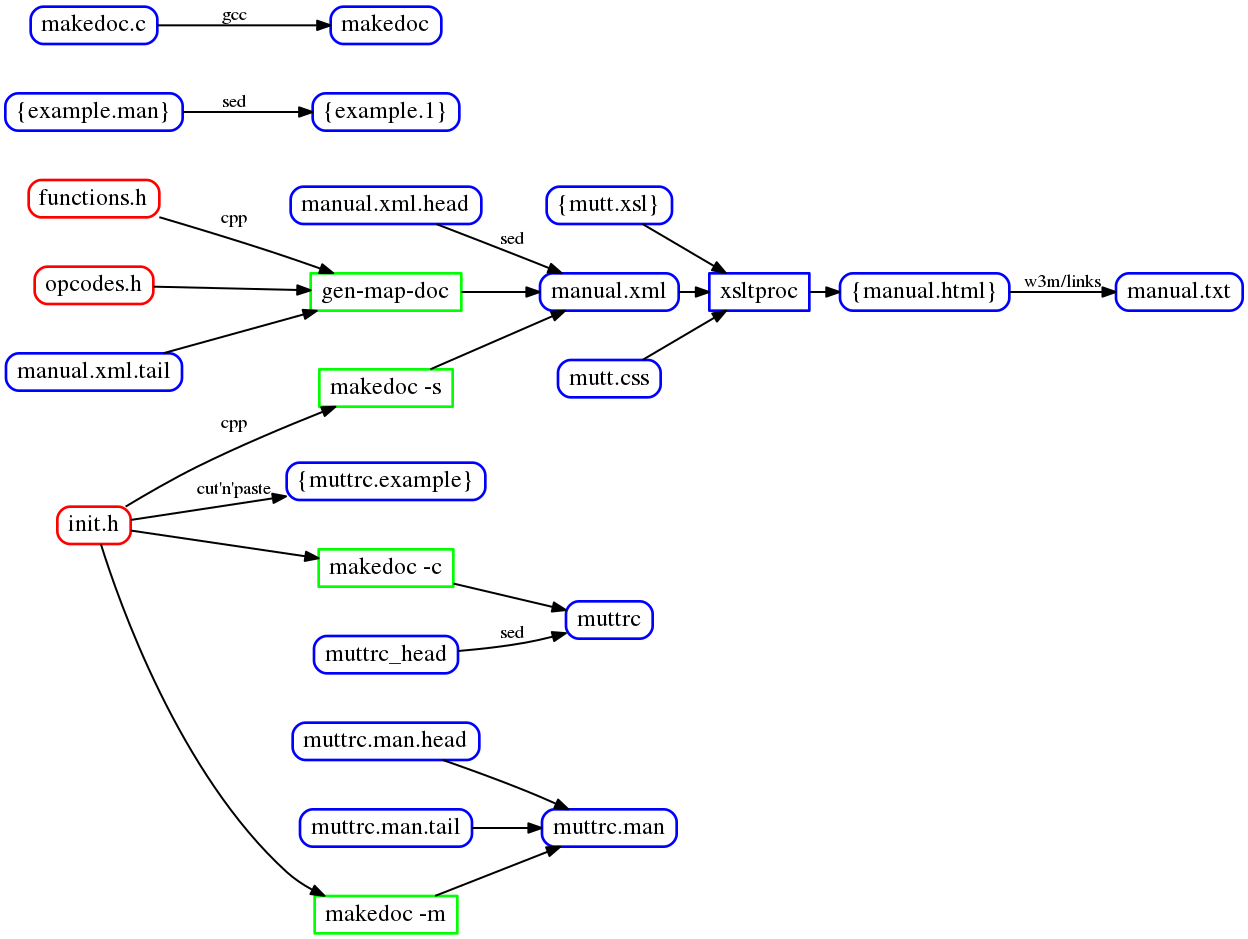
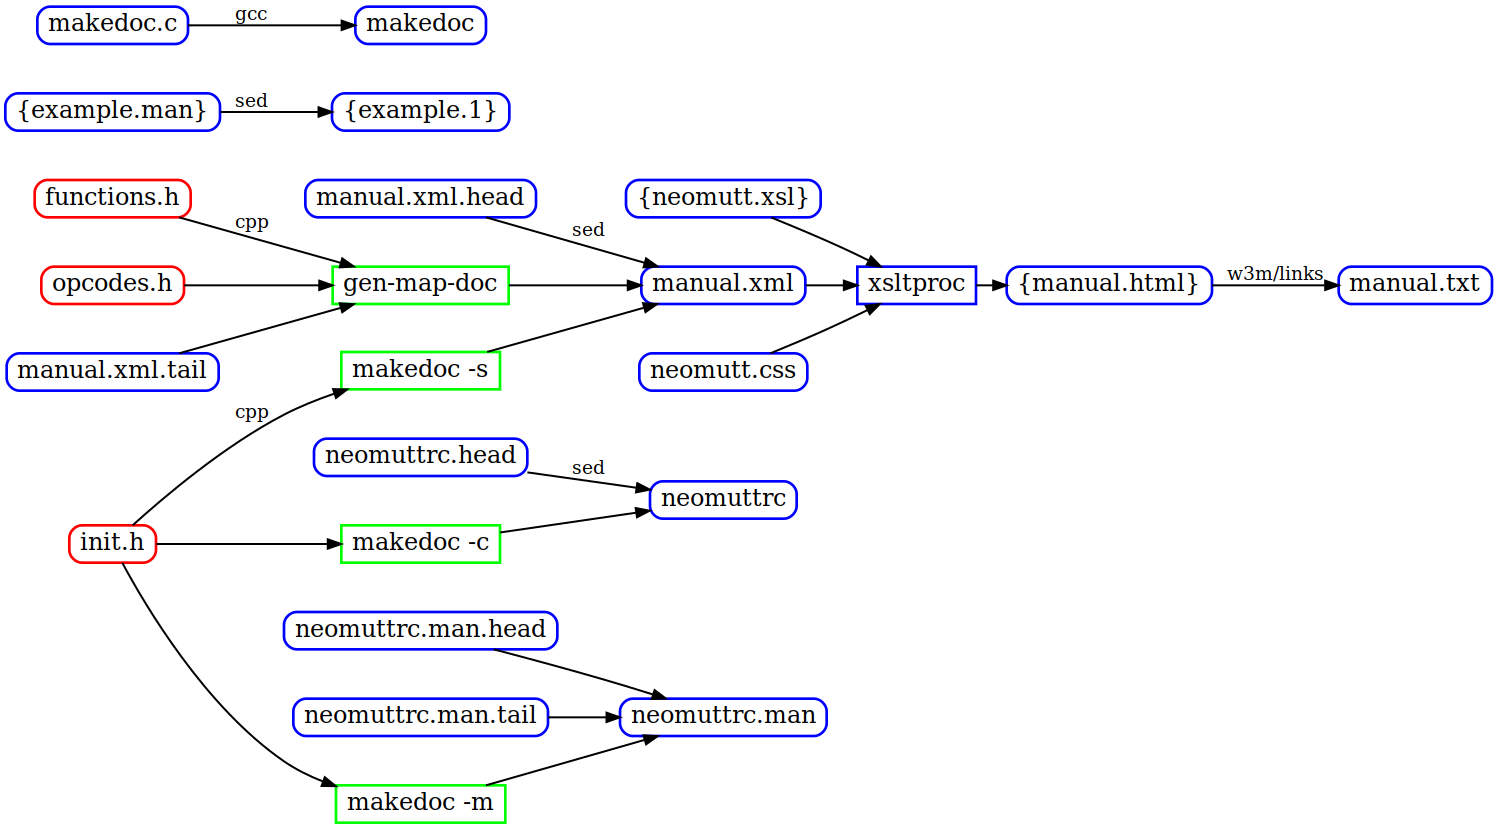
_dev/make.md: Update images, links

Changed region(s): [[0.0, 0.0906, 1.0, 0.9964], [0.0312, 0.0, 0.3438, 0.0604], [0.0312, 0.5133, 0.1562, 0.7246]]

diff --git a/_dev/make.md b/_dev/make.md
@@ -10,25 +10,26 @@ The NeoMutt build relies on a lot of pre-/post-processing.
 
 The diagrams below shows how the code and docs fit together.
 
-[![make](/images/make-code-thumb.png)](/images/make-code.png) [![make](/images/make-docs-thumb.png)](/images/make-docs.png)
+[![make](/images/make-code-thumb.png)](/images/make-code.png 'click to enlarge')
+[![make](/images/make-docs-thumb.png)](/images/make-docs.png 'click to enlarge')
 
 **Key**:
 
-- Ellipse    : source file
-- Square     : action
+- Ellipse        : source file
+- Square         : action
   - Blue square  : normal command
-  - Green square : Mutt script/command
-- Red dot    : action is dependent on the environment (OS, libs, etc)
-- Green star : action is dependent on user configuration
-- {Braces}   : multiple files follow this pattern
+  - Green square : NeoMutt script/command
+- Red dot        : action is dependent on the environment (OS, libs, etc.)
+- Green star     : action is dependent on user configuration
+- {Braces}       : multiple files follow this pattern
 
 **Source Code**:
 
-- compulsory    : always compiled into Mutt
-- conditional   : depends on user config
-- environmental : depends on OS's available libraries
-- generated     : created from other files
-- shared        : used in multiple places
+- compulsory     : always compiled into NeoMutt
+- conditional    : depends on user config
+- environmental  : depends on OS's available libraries
+- generated      : created from other files
+- shared         : used in multiple places
 
 **Diagram Source**:
 
@@ -42,5 +43,5 @@ dot -Tpng make-code.gv > make-code.png
 dot -Tpng make-docs.gv > make-docs.png
 ```
 
-(from the `graphviz` package)
+(from the [`graphviz` package](http://graphviz.org/))
 
